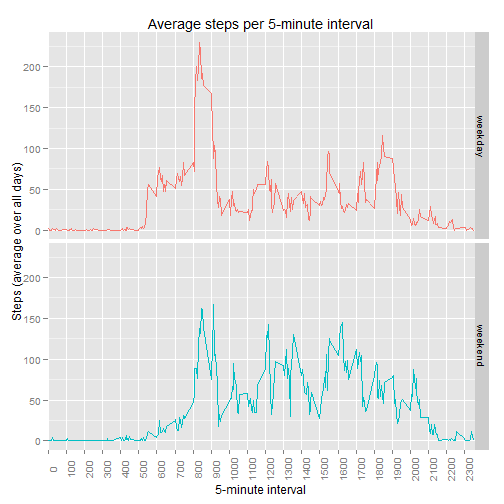
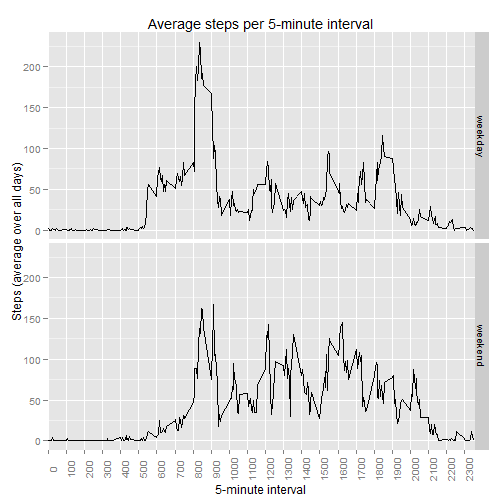
updates

diff --git a/PA1_template.html b/PA1_template.html
@@ -475,7 +475,7 @@ steps_median.imputed - steps_median
 The mean and median both became larger, and they became closer to each other. Actually, they seem to be nearly identical.
 <br><br>
 <strong>Distribution:</strong><br/>
-The original distribution had a relatively large number of days that had a small number of total steps, which is seen in the &ldquo;peak&rdquo; between 0-2000 steps. The original distribution also had a &ldquo;peak&rdquo; between 10,000 and 12,000 steps. The new distribution only has a single &ldquo;peak&rdquo; - also between 10,000 and 12,000 steps - and is relatively symmetric around the mean. The mean being very close to the median is a reflection of the relative symmetry in the new distribution.</p>
+The original distribution had a relatively large number of days that had a small number of total steps, which is seen in the &ldquo;peak&rdquo; between 0-2000 steps. The original distribution also had a &ldquo;peak&rdquo; between 10,000 and 12,000 steps. The new distribution only has a single &ldquo;peak&rdquo; - also between 10,000 and 12,000 steps - and is relatively symmetric around the mean. The mean being very close to the median is a reflection of the relative symmetry in the new distribution and the high concentration of data around the mean.</p>
 
 <h2><br></h2>
 
@@ -486,7 +486,7 @@ The original distribution had a relatively large number of days that had a small
 <h4>1. Create a new factor variable in the dataset with two levels - &ldquo;weekday&rdquo; and &ldquo;weekend&rdquo; indicating whether a given date is a weekday or weekend day.</h4>
 
 <pre><code class="r"># Character vector of weekday name in string form
-all_days &lt;- weekdays(mydata$date)
+all_days &lt;- weekdays(mydata.imputed$date)
 
 # Logical vector for weekend days
 weekends.logi &lt;- grepl(&quot;^(Saturday|Sunday)$&quot;, all_days)
@@ -524,7 +524,7 @@ x_axis_ticks &lt;- seq(
 
 # Plot the line graph
 g &lt;- ggplot(steps_by_interval, aes(interval, steps)) +
-    geom_line(aes(color=DayType)) +
+    geom_line() +
     facet_grid(DayType ~ .) +
     theme(legend.position=&quot;none&quot;) +
     xlab(&quot;5-minute interval&quot;) +
@@ -536,7 +536,7 @@ g &lt;- ggplot(steps_by_interval, aes(interval, steps)) +
 print(g)
 </code></pre>
 
[2 lines of base64/hex data omitted]
 
 <hr/>
 

diff --git a/PA1_template.md b/PA1_template.md
@@ -300,7 +300,7 @@ steps_median.imputed - steps_median
 The mean and median both became larger, and they became closer to each other. Actually, they seem to be nearly identical.
 <br><br>
 **Distribution:**  
-The original distribution had a relatively large number of days that had a small number of total steps, which is seen in the "peak" between 0-2000 steps. The original distribution also had a "peak" between 10,000 and 12,000 steps. The new distribution only has a single "peak" - also between 10,000 and 12,000 steps - and is relatively symmetric around the mean. The mean being very close to the median is a reflection of the relative symmetry in the new distribution.
+The original distribution had a relatively large number of days that had a small number of total steps, which is seen in the "peak" between 0-2000 steps. The original distribution also had a "peak" between 10,000 and 12,000 steps. The new distribution only has a single "peak" - also between 10,000 and 12,000 steps - and is relatively symmetric around the mean. The mean being very close to the median is a reflection of the relative symmetry in the new distribution and the high concentration of data around the mean.
 <br>
 ---
 ---
@@ -311,7 +311,7 @@ The original distribution had a relatively large number of days that had a small
 
 ```r
 # Character vector of weekday name in string form
-all_days <- weekdays(mydata$date)
+all_days <- weekdays(mydata.imputed$date)
 
 # Logical vector for weekend days
 weekends.logi <- grepl("^(Saturday|Sunday)$", all_days)
@@ -351,7 +351,7 @@ x_axis_ticks <- seq(
 
 # Plot the line graph
 g <- ggplot(steps_by_interval, aes(interval, steps)) +
-    geom_line(aes(color=DayType)) +
+    geom_line() +
     facet_grid(DayType ~ .) +
     theme(legend.position="none") +
     xlab("5-minute interval") +
